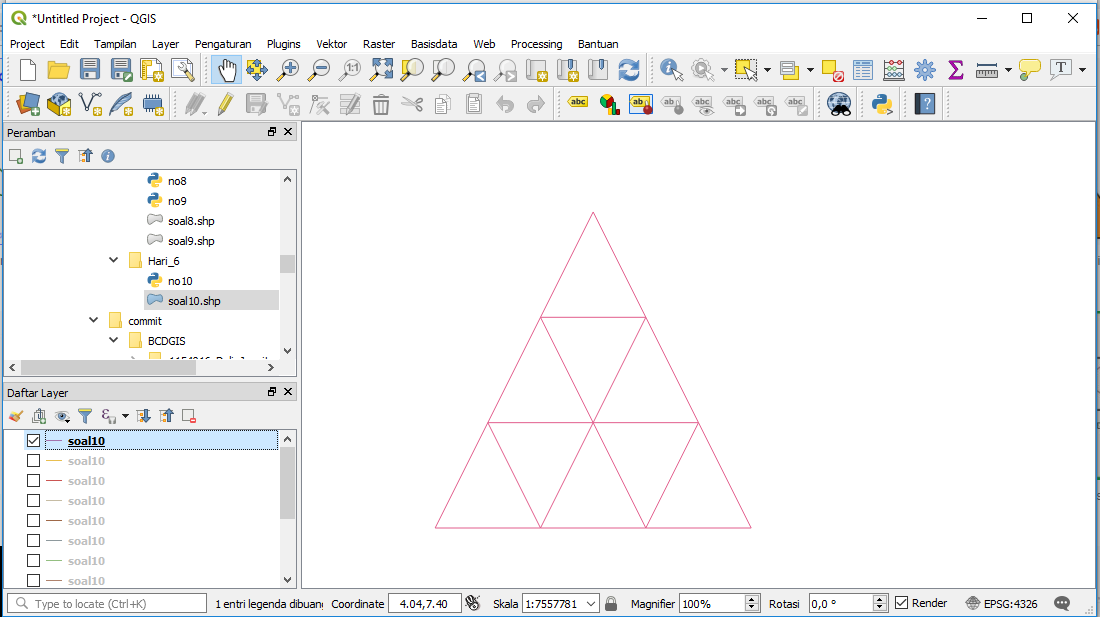
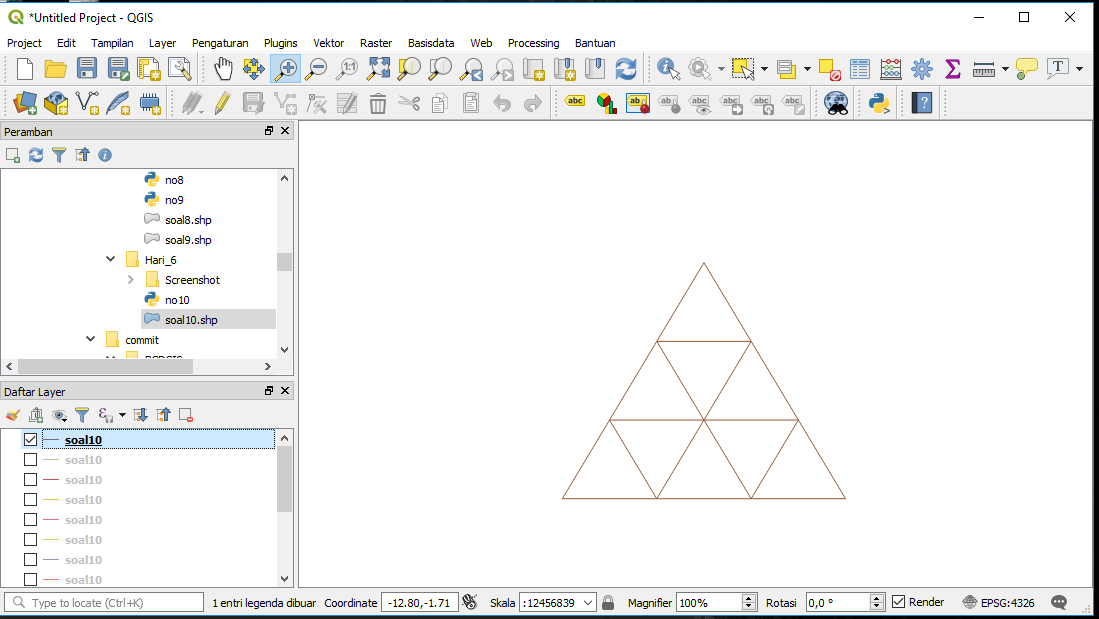
Alhamdulilahhh indehoy

diff --git a/1164065_AndriFajarSunandhar_D4TI3C/Hari_6/no10.py b/1164065_AndriFajarSunandhar_D4TI3C/Hari_6/no10.py
@@ -13,12 +13,12 @@ w.record("dudung","Segitiga") #mengisi record pada kolom yang telah disediakan
 w.record("patrik","Segitiga")#mengisi record pada kolom yang telah disediakan
 
 
-w.poly(parts=[[[-1,1],[0,3],[1,1],[-1,1]]],shapeType=shapefile.POLYLINE) #membuat koordinat polygon yang menghasilkan 6 segitiga sama kaki dengan nama sule
-w.poly(parts=[[[1,1],[3,1],[2,3],[1,1]]],shapeType=shapefile.POLYLINE)  #dono
-w.poly(parts=[[[-1,1],[-3,1],[-2,3],[-1,1]]],shapeType=shapefile.POLYLINE) #dadang
-w.poly(parts=[[[-2,3],[-1,5],[0,3],[-2,3]]],shapeType=shapefile.POLYLINE) #diding
-w.poly(parts=[[[2,3],[1,5],[0,3],[2,3]]],shapeType=shapefile.POLYLINE) #dudung
-w.poly(parts=[[[-1,5],[1,5],[0,7],[-1,5]]],shapeType=shapefile.POLYLINE) #patrik
+w.poly(parts=[[[-1.5,1],[0,3.5],[1.5,1],[-1.5,1]]],shapeType=shapefile.POLYLINE) #membuat koordinat polygon yang menghasilkan 6 segitiga sama kaki dengan nama sule
+w.poly(parts=[[[1.5,1],[4.5,1],[3,3.5],[1.5,1]]],shapeType=shapefile.POLYLINE)  #dono
+w.poly(parts=[[[-4.5,1],[-3,3.5],[-1.5,1],[-4.5,1]]],shapeType=shapefile.POLYLINE)  #dadang
+w.poly(parts=[[[-3,3.5],[-1.5,6],[0,3.5],[-3,3.5]]],shapeType=shapefile.POLYLINE)  #diding
+w.poly(parts=[[[3,3.5],[1.5,6],[0,3.5],[3,3.5]]],shapeType=shapefile.POLYLINE)  #dudung
+w.poly(parts=[[[-1.5,6],[0,8.5],[1.5,6],[-1.5,6]]],shapeType=shapefile.POLYLINE) #patrik
 
 
 w.save("soal10")     #untuk menyimpan file data dengan bentuk shp file
